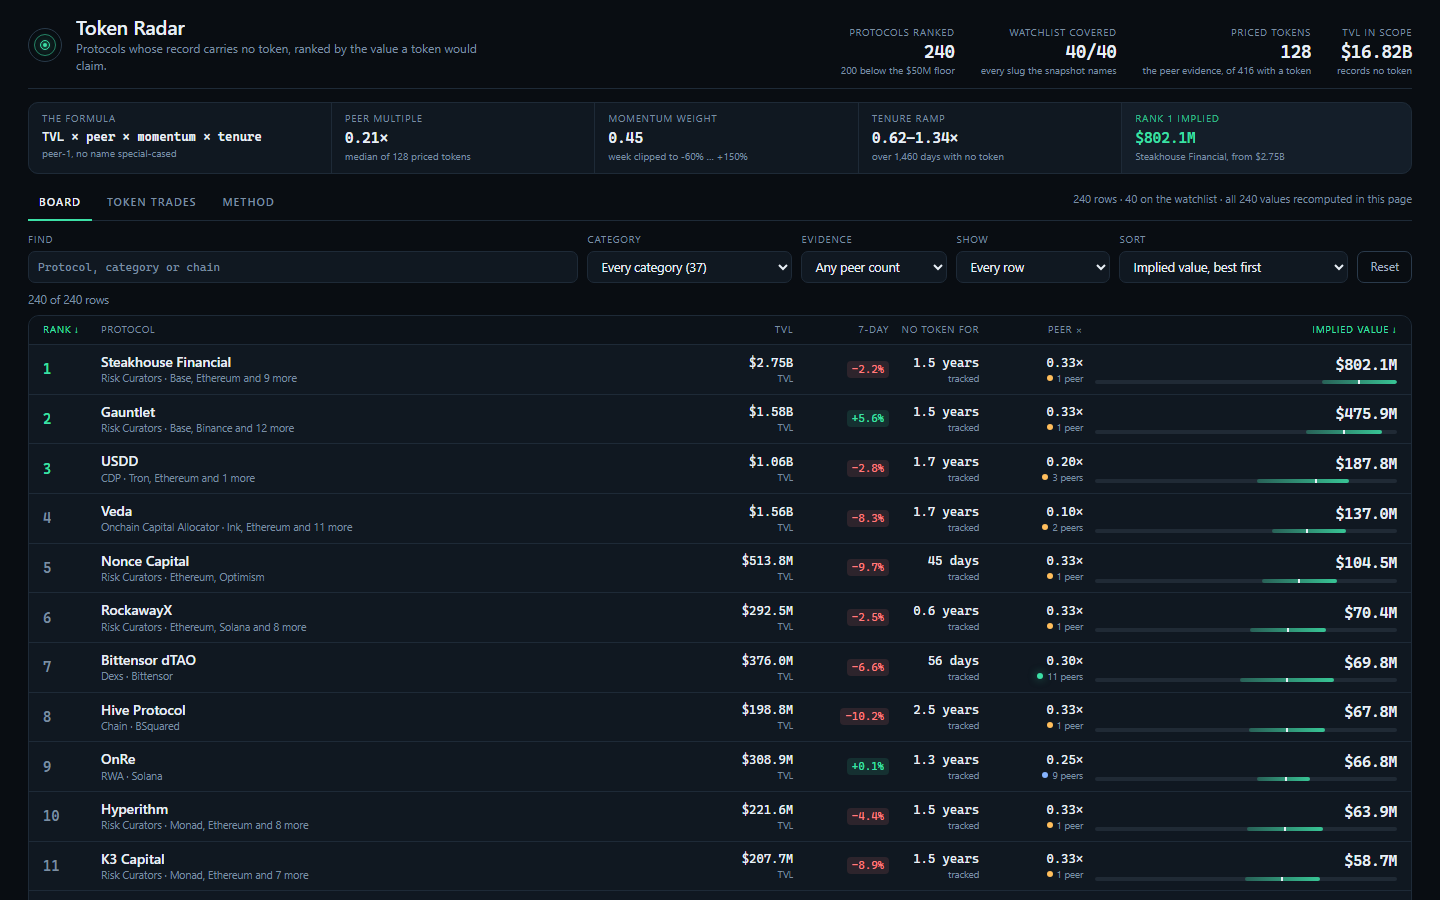
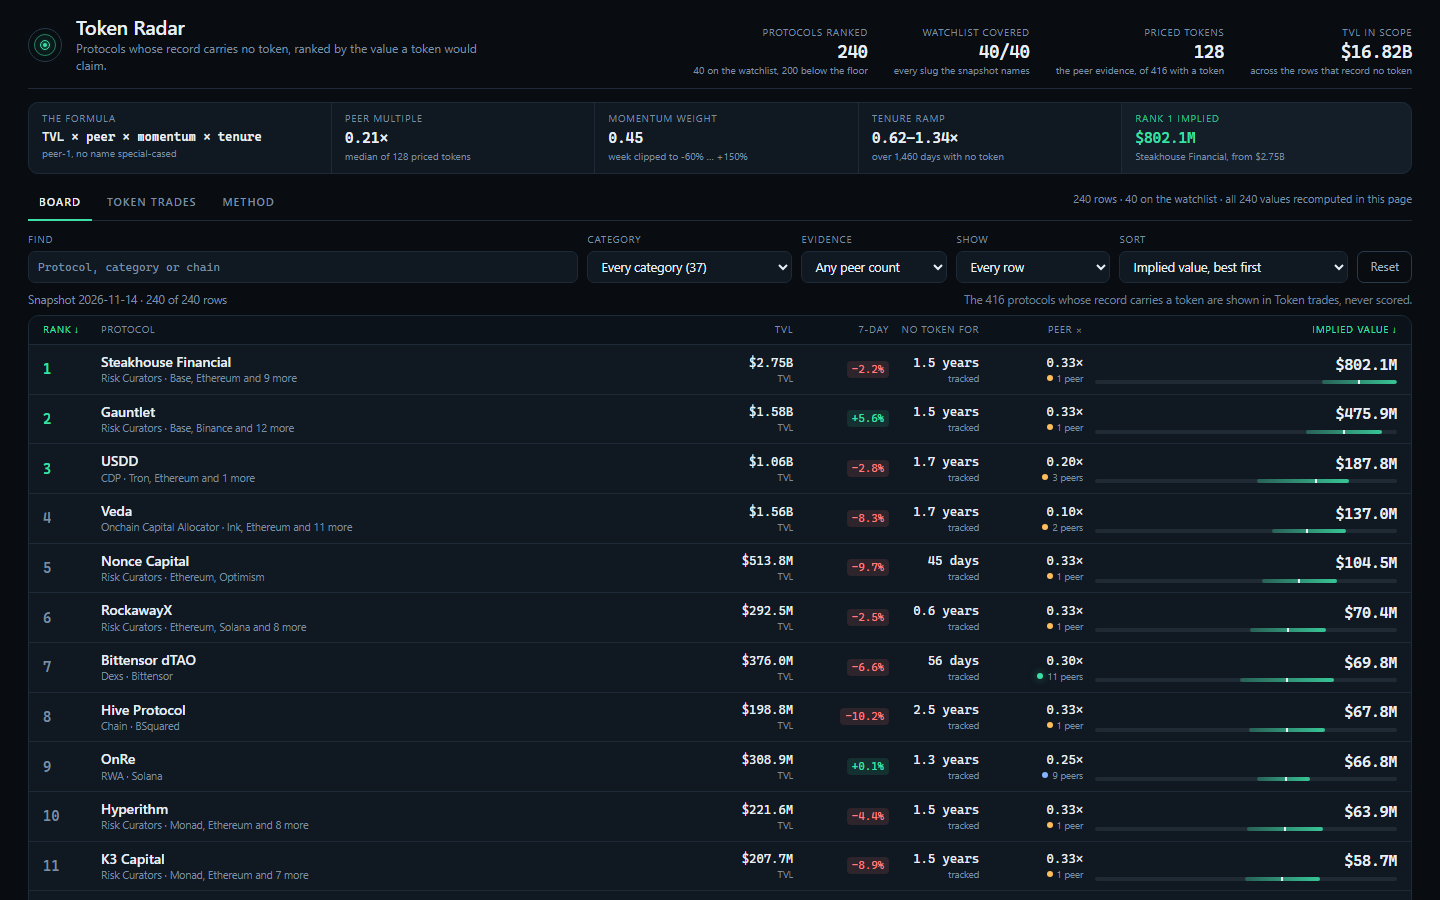
Page: name the token-bearing split on the board itself, and say where each factor comes from
The status line now states the snapshot day and that the protocols whose record carries a token
are shown in Token trades and never scored, so the separation the model relies on is on the board
screen and not only in the source. The detail view names the category a peer multiple was read in,
and the masthead counts the watchlist beside the floor. Screenshots recaptured from the same build;
the page still recomputes all 240 values from their factors.

Changed region(s): [[0.5, 0.0311, 0.9375, 0.0933], [0.6875, 0.3111, 0.9688, 0.3422], [0.0312, 0.3111, 0.1562, 0.3422]]

diff --git a/dashboard/app.js b/dashboard/app.js
@@ -127,10 +127,10 @@
   function renderFacts() {
     var covered = R.rows.filter(function (r) { return r.tier === 'watchlist'; }).length;
     var items = [
-      ['Protocols ranked', String(R.meta.board_size), R.meta.below_floor + ' below the $' + Math.round(R.meta.floor_usd / 1e6) + 'M floor'],
+      ['Protocols ranked', String(R.meta.board_size), R.meta.watchlist + ' on the watchlist, ' + R.meta.below_floor + ' below the floor'],
       ['Watchlist covered', covered + '/' + R.meta.watchlist, 'every slug the snapshot names'],
       ['Priced tokens', String(R.meta.with_mcap), 'the peer evidence, of ' + R.meta.token_bearing + ' with a token'],
-      ['TVL in scope', usd(R.meta.tvl_in_scope), 'records no token']
+      ['TVL in scope', usd(R.meta.tvl_in_scope), 'across the rows that record no token']
     ];
     $('facts').innerHTML = items.map(function (it) {
       return '<div><dt>' + esc(it[0]) + '</dt><dd>' + esc(it[1]) + '<small>' + esc(it[2]) + '</small></dd></div>';
@@ -179,7 +179,8 @@
     if (state.tier !== '*') chips.push('<span class="chip grey">' + esc(state.tier === 'watchlist' ? 'house watchlist' : 'below the floor') + '</span>');
     if (state.sort !== 'rank') chips.push('<span class="chip grey">sorted by ' + esc(state.sort === 'age' ? 'time without a token' : state.sort) + '</span>');
     var text = rows.length + ' of ' + R.rows.length + ' rows';
-    $('status').innerHTML = '<span>' + esc(text) + '</span>' + chips.join('');
+    $('status').innerHTML = '<span>Snapshot ' + esc(R.meta.as_of) + ' · ' + esc(text) + '</span>' + chips.join('') +
+      '<span class="aside">The ' + R.meta.token_bearing + ' protocols whose record carries a token are shown in Token trades, never scored.</span>';
     $('empty').hidden = rows.length > 0;
     $('empty').textContent = rows.length ? '' : 'No protocol matches that filter. Clear one and the board comes back.';
   }
@@ -312,7 +313,7 @@
         '<h3>The arithmetic, factor by factor</h3>' +
         '<div class="factors">' +
           '<div class="factor"><span>TVL</span><b>' + usd(row.tvl_usd) + '</b><small>' + esc(chainLine(row.chains, 2)) + '</small></div>' +
-          '<div class="factor"><span>Peer ×</span><b>' + mult(f.peer_multiple) + '</b><small>' + gradeWord(f.peer_peers) + ' at ' + mult(f.peer_median) + '</small></div>' +
+          '<div class="factor"><span>Peer ×</span><b>' + mult(f.peer_multiple) + '</b><small>' + gradeWord(f.peer_peers) + ' in ' + esc(catLabel(row)) + '</small></div>' +
           '<div class="factor ' + (f.momentum >= 1 ? 'good' : 'bad') + '"><span>Momentum</span><b>' + f.momentum.toFixed(2) + '×</b><small>' + pct(row.change_7d) + ' this week</small></div>' +
           '<div class="factor"><span>Tenure</span><b>' + f.tenure.toFixed(2) + '×</b><small>' + esc(track(row.age_days)) + ' without a token</small></div>' +
         '</div>' +

diff --git a/dashboard/app.css b/dashboard/app.css
@@ -121,6 +121,7 @@ table { border-collapse: collapse; width: 100%; }
 .controls .ghost:hover { color: var(--ink); border-color: var(--ink-3); }
 
 .status { display: flex; flex-wrap: wrap; gap: 7px; align-items: center; min-height: 20px; padding: 2px 0 7px; color: var(--ink-3); font-size: 11.5px; }
+.status .aside { margin-left: auto; color: var(--ink-3); opacity: 0.9; }
 .chip {
   display: inline-flex; align-items: center; gap: 6px; border-radius: 999px; padding: 1px 9px;
   background: var(--mint-soft); border: 1px solid rgba(60, 224, 166, 0.28); color: var(--mint);
